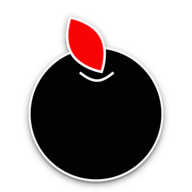
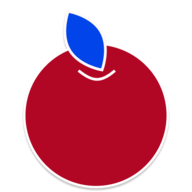
change color

diff --git a/biosugar0/layouts/partials/favicons.html b/biosugar0/layouts/partials/favicons.html
@@ -1,10 +1,10 @@
 {{- with .Site.Params.favicon.color }}
-    <link rel="apple-touch-icon" sizes="180x180" href="/apple-touch-icon.png?v=GvbKepQkbv">
-    <link rel="icon" type="image/png" sizes="32x32" href="/favicon-32x32.png?v=GvbKepQkbv">
-    <link rel="icon" type="image/png" sizes="16x16" href="/favicon-16x16.png?v=GvbKepQkbv">
-    <link rel="manifest" href="/site.webmanifest?v=GvbKepQkbv">
-    <link rel="mask-icon" href="/safari-pinned-tab.svg?v=GvbKepQkbv" color="#5bbad5">
-    <link rel="shortcut icon" href="/favicon.ico?v=GvbKepQkbv">
+    <link rel="apple-touch-icon" sizes="180x180" href="/apple-touch-icon.png?v=XBbkG2aaKw">
+    <link rel="icon" type="image/png" sizes="32x32" href="/favicon-32x32.png?v=XBbkG2aaKw">
+    <link rel="icon" type="image/png" sizes="16x16" href="/favicon-16x16.png?v=XBbkG2aaKw">
+    <link rel="manifest" href="/site.webmanifest?v=XBbkG2aaKw">
+    <link rel="mask-icon" href="/safari-pinned-tab.svg?v=XBbkG2aaKw" color="#5bbad5">
+    <link rel="shortcut icon" href="/favicon.ico?v=XBbkG2aaKw">
     <meta name="apple-mobile-web-app-title" content="biosugar0">
     <meta name="application-name" content="biosugar0">
     <meta name="msapplication-TileColor" content="{{.msapplication}}">

diff --git a/biosugar0/static/sass/footer.scss b/biosugar0/static/sass/footer.scss
@@ -1,0 +1,44 @@
+.footer {
+  padding: 40px 20px;
+  flex-grow: 0;
+  color: $light-color-secondary;
+
+  &__inner {
+    display: flex;
+    align-items: center;
+    justify-content: center;
+    margin: 0 auto;
+    width: 760px;
+    max-width: 100%;
+
+    @media #{$media-size-tablet} {
+      flex-direction: column;
+    }
+  }
+
+  &__content {
+    display: flex;
+    flex-direction: row;
+    align-items: center;
+    font-size: 0.9rem;
+    color: $light-color-secondary;
+
+    @media #{$media-size-tablet} {
+      flex-direction: column;
+      margin-top: 10px;
+    }
+
+    & > *:not(:last-child) {
+      border-right: 1px solid;
+      padding: 0 15px;
+
+      @media #{$media-size-tablet} {
+        border: none;
+      }
+    }
+
+    & > *:last-child {
+      padding: 0 15px;
+    }
+  }
+}
